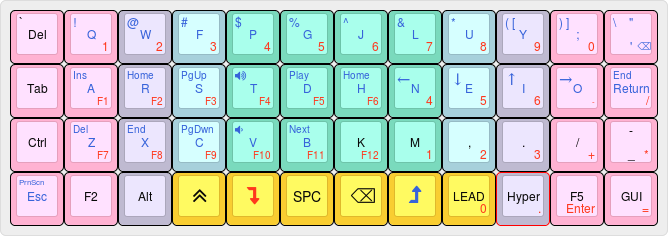
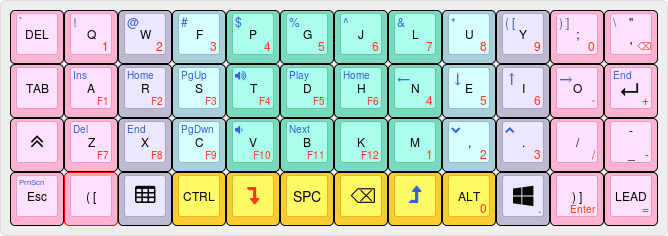
v1.4 release

diff --git a/keymap.c b/keymap.c
@@ -50,6 +50,7 @@ enum custom_keycodes{
   CT_UNDER,
 };
 
+
 /* Lead Variables */
 
 const char JB[15] = "joshua.bragge";
@@ -83,20 +84,20 @@ const uint16_t PROGMEM keymaps[][MATRIX_ROWS][MATRIX_COLS] = {
 
 /* Colemak
  * ,-----------------------------------------------------------------------------------.
- * | Del  |   Q  |   W  |   F  |   P  |   G  |   J  |   L  |   U  |   Y  |  ;/: |  '   |
+ * | Del  |   Q  |   W  |   F  |   P  |   G  |   J  |   L  |   U  |   Y  |  ; : |  '   |
  * |------+------+------+------+------+-------------+------+------+------+------+------|
  * | Tab  |   A  |   R  |   S  |   T  |   D  |   H  |   N  |   E  |   I  |   O  |Enter |
  * |------+------+------+------+------+------|------+------+------+------+------+------|
- * | Ctrl |   Z  |   X  |   C  |   V  |   B  |   K  |   M  |   ,  |   .  |   /  |  -/_ |
+ * |LShift|   Z  |   X  |   C  |   V  |   B  |   K  |   M  |   ,  |   .  |   /  |  - _ |
  * |------+------+------+------+------+------+------+------+------+------+------+------|
- * |Esc/F4|  F2  | Alt  |LShift|Lower |Space | Bksp |Raise | LEAD | HYPER|  F5  | GUI  |
+ * |Esc/F4|  ( [ |Divvy | Ctrl |Lower |Space | Bksp |Raise | Alt  | GUI  |  ) ] | LEAD |
  * `-----------------------------------------------------------------------------------'
  */
 [_COLEMAK] = LAYOUT_planck_grid(
-    KC_DEL,        KC_Q,    KC_W,    KC_F,    KC_P,    KC_G,    KC_J,    KC_L,    KC_U,    KC_Y,    TD(CT_COL), KC_QUOT,
-    KC_TAB,        KC_A,    KC_R,    KC_S,    KC_T,    KC_D,    KC_H,    KC_N,    KC_E,    KC_I,    KC_O,    KC_ENT,
-    KC_LCTL,       KC_Z,    KC_X,    KC_C,    KC_V,    KC_B,    KC_K,    KC_M,    KC_COMM, KC_DOT,  KC_SLSH, TD(CT_UNDER),
-    TD(CT_ESCF4),  KC_F2, KC_LALT,  KC_LSFT, LOWER,   RSFT_T(KC_SPACE),  KC_BSPC,  RAISE,   KC_LEAD, KC_HYPR, KC_F5, KC_LGUI
+    KC_DEL,        KC_Q,       KC_W,       KC_F,    KC_P,       KC_G,             KC_J,    KC_L,    KC_U,    KC_Y,    TD(CT_COL), KC_QUOT,
+    KC_TAB,        KC_A,       KC_R,       KC_S,    KC_T,       KC_D,             KC_H,    KC_N,    KC_E,    KC_I,    KC_O,       KC_ENT,
+    KC_LSFT,       KC_Z,       KC_X,       KC_C,    KC_V,       KC_B,             KC_K,    KC_M,    KC_COMM, KC_DOT,  KC_SLSH,    TD(CT_UNDER),
+    TD(CT_ESCF4),  TD(CT_LBP), MEH(KC_W),  KC_LCTL, LOWER,      RSFT_T(KC_SPACE), KC_BSPC, RAISE,   KC_LALT, KC_LGUI, TD(CT_RBP), KC_LEAD
 ),
 
 /* Dvorak
@@ -123,7 +124,7 @@ const uint16_t PROGMEM keymaps[][MATRIX_ROWS][MATRIX_COLS] = {
  * |------+------+------+------+------+-------------+------+------+------+------+------|
  * |      |Insert| Home | PgUp | Vol+ | Play | Home | Left | Down |  Up  |Right |  End |
  * |------+------+------+------+------+------|------+------+------+------+------+------|
- * |      | Del  | End  | PgDwn| Vol- | Next |      |      |      |      |      |      |
+ * |      | Del  | End  | PgDwn| Vol- | Next |      |      | PgDwn| PgUp |      |      |
  * |------+------+------+------+------+------+------+------+------+------+------+------|
  * |PrnScn|      |      |      |      |      |      |      |      |      |      |      |
  * `-----------------------------------------------------------------------------------'
@@ -131,7 +132,7 @@ const uint16_t PROGMEM keymaps[][MATRIX_ROWS][MATRIX_COLS] = {
 [_RAISE] = LAYOUT_planck_grid(
     KC_GRV,   KC_EXLM,     KC_AT,     KC_HASH,   KC_DLR,    KC_PERC,   KC_CIRC,   KC_AMPR,    KC_ASTR,    TD(CT_LBP), TD(CT_RBP), KC_BSLS,
     _______,  KC_INSERT,   KC_HOME,   KC_PGUP,   KC_VOLU,   KC_MPLY,   KC_HOME,   KC_LEFT,    KC_DOWN,    KC_UP,      KC_RIGHT,     KC_END,
-    _______,  KC_DEL,      KC_END,    KC_PGDN,   KC_VOLD,   KC_MNXT,   _______,  _______,     _______,    _______,     _______,   _______,
+    _______,  KC_DEL,      KC_END,    KC_PGDN,   KC_VOLD,   KC_MNXT,   _______,  _______,     KC_PGDN,    KC_PGUP,     _______,   _______,
     KC_PSCR,  _______,     _______,   _______,   _______,    _______,  _______,  _______,     _______,    _______,     _______,   _______
 ),
 
@@ -143,7 +144,7 @@ const uint16_t PROGMEM keymaps[][MATRIX_ROWS][MATRIX_COLS] = {
  * |------+------+------+------+------+------|------+------+------+------+------+------|
  * |      |  F7  |  F8  |  F9  |  F10 |  F11 |  F12 |   1  |   2  |   3  |  /   |  -   |
  * |------+------+------+------+------+------+------+------+------+------+------+------|
- * |      |      |      |      |      |      |      |      |  0   |   .  |Enter |  =   |
+ * |      |      |      |      |      |      |      |      |   0  |   .  |Enter |  =   |
  * `-----------------------------------------------------------------------------------'
  */
 [_LOWER] = LAYOUT_planck_grid(
@@ -176,7 +177,7 @@ const uint16_t PROGMEM keymaps[][MATRIX_ROWS][MATRIX_COLS] = {
  * ,-----------------------------------------------------------------------------------.
  * |      | Reset|      |      |      |      |      |      |      |      |      |  Del |
  * |------+------+------+------+------+-------------+------+------+------+------+------|
- * |      |      |      |Aud on|Audoff|AGnorm|AGswap|Qwerty|Colemk|Dvorak|Plover|      |
+ * |      |      |      |Aud on|Audoff|AGnorm|AGswap|      |Colemk|      |Plover|      |
  * |------+------+------+------+------+------|------+------+------+------+------+------|
  * |      |Voice-|Voice+|Mus on|Musoff|MIDIon|MIDIof|      |      |      |      |      |
  * |------+------+------+------+------+------+------+------+------+------+------+------|

diff --git a/NEWS.md b/NEWS.md
@@ -1,5 +1,15 @@
 <!-- -*- mode: markdown; fill-column: 8192 -*- -->
 
+## v1.4
+
+*2019-02-09*
+
+- Moved `CTRL` and `SHIFT` around. `CTRL` now better alings with keyboardio and ergodox.
+- Removed F5 and F2 as those are "work" keys and planck is used more at home.
+- Moved `LEAD` to better match location of keyboardio and ergodox.
+- Added shortcut for window management.
+- Moved `ALT` and `GUI`.S
+
 ## v1.3
 
 *2018-12-17*
